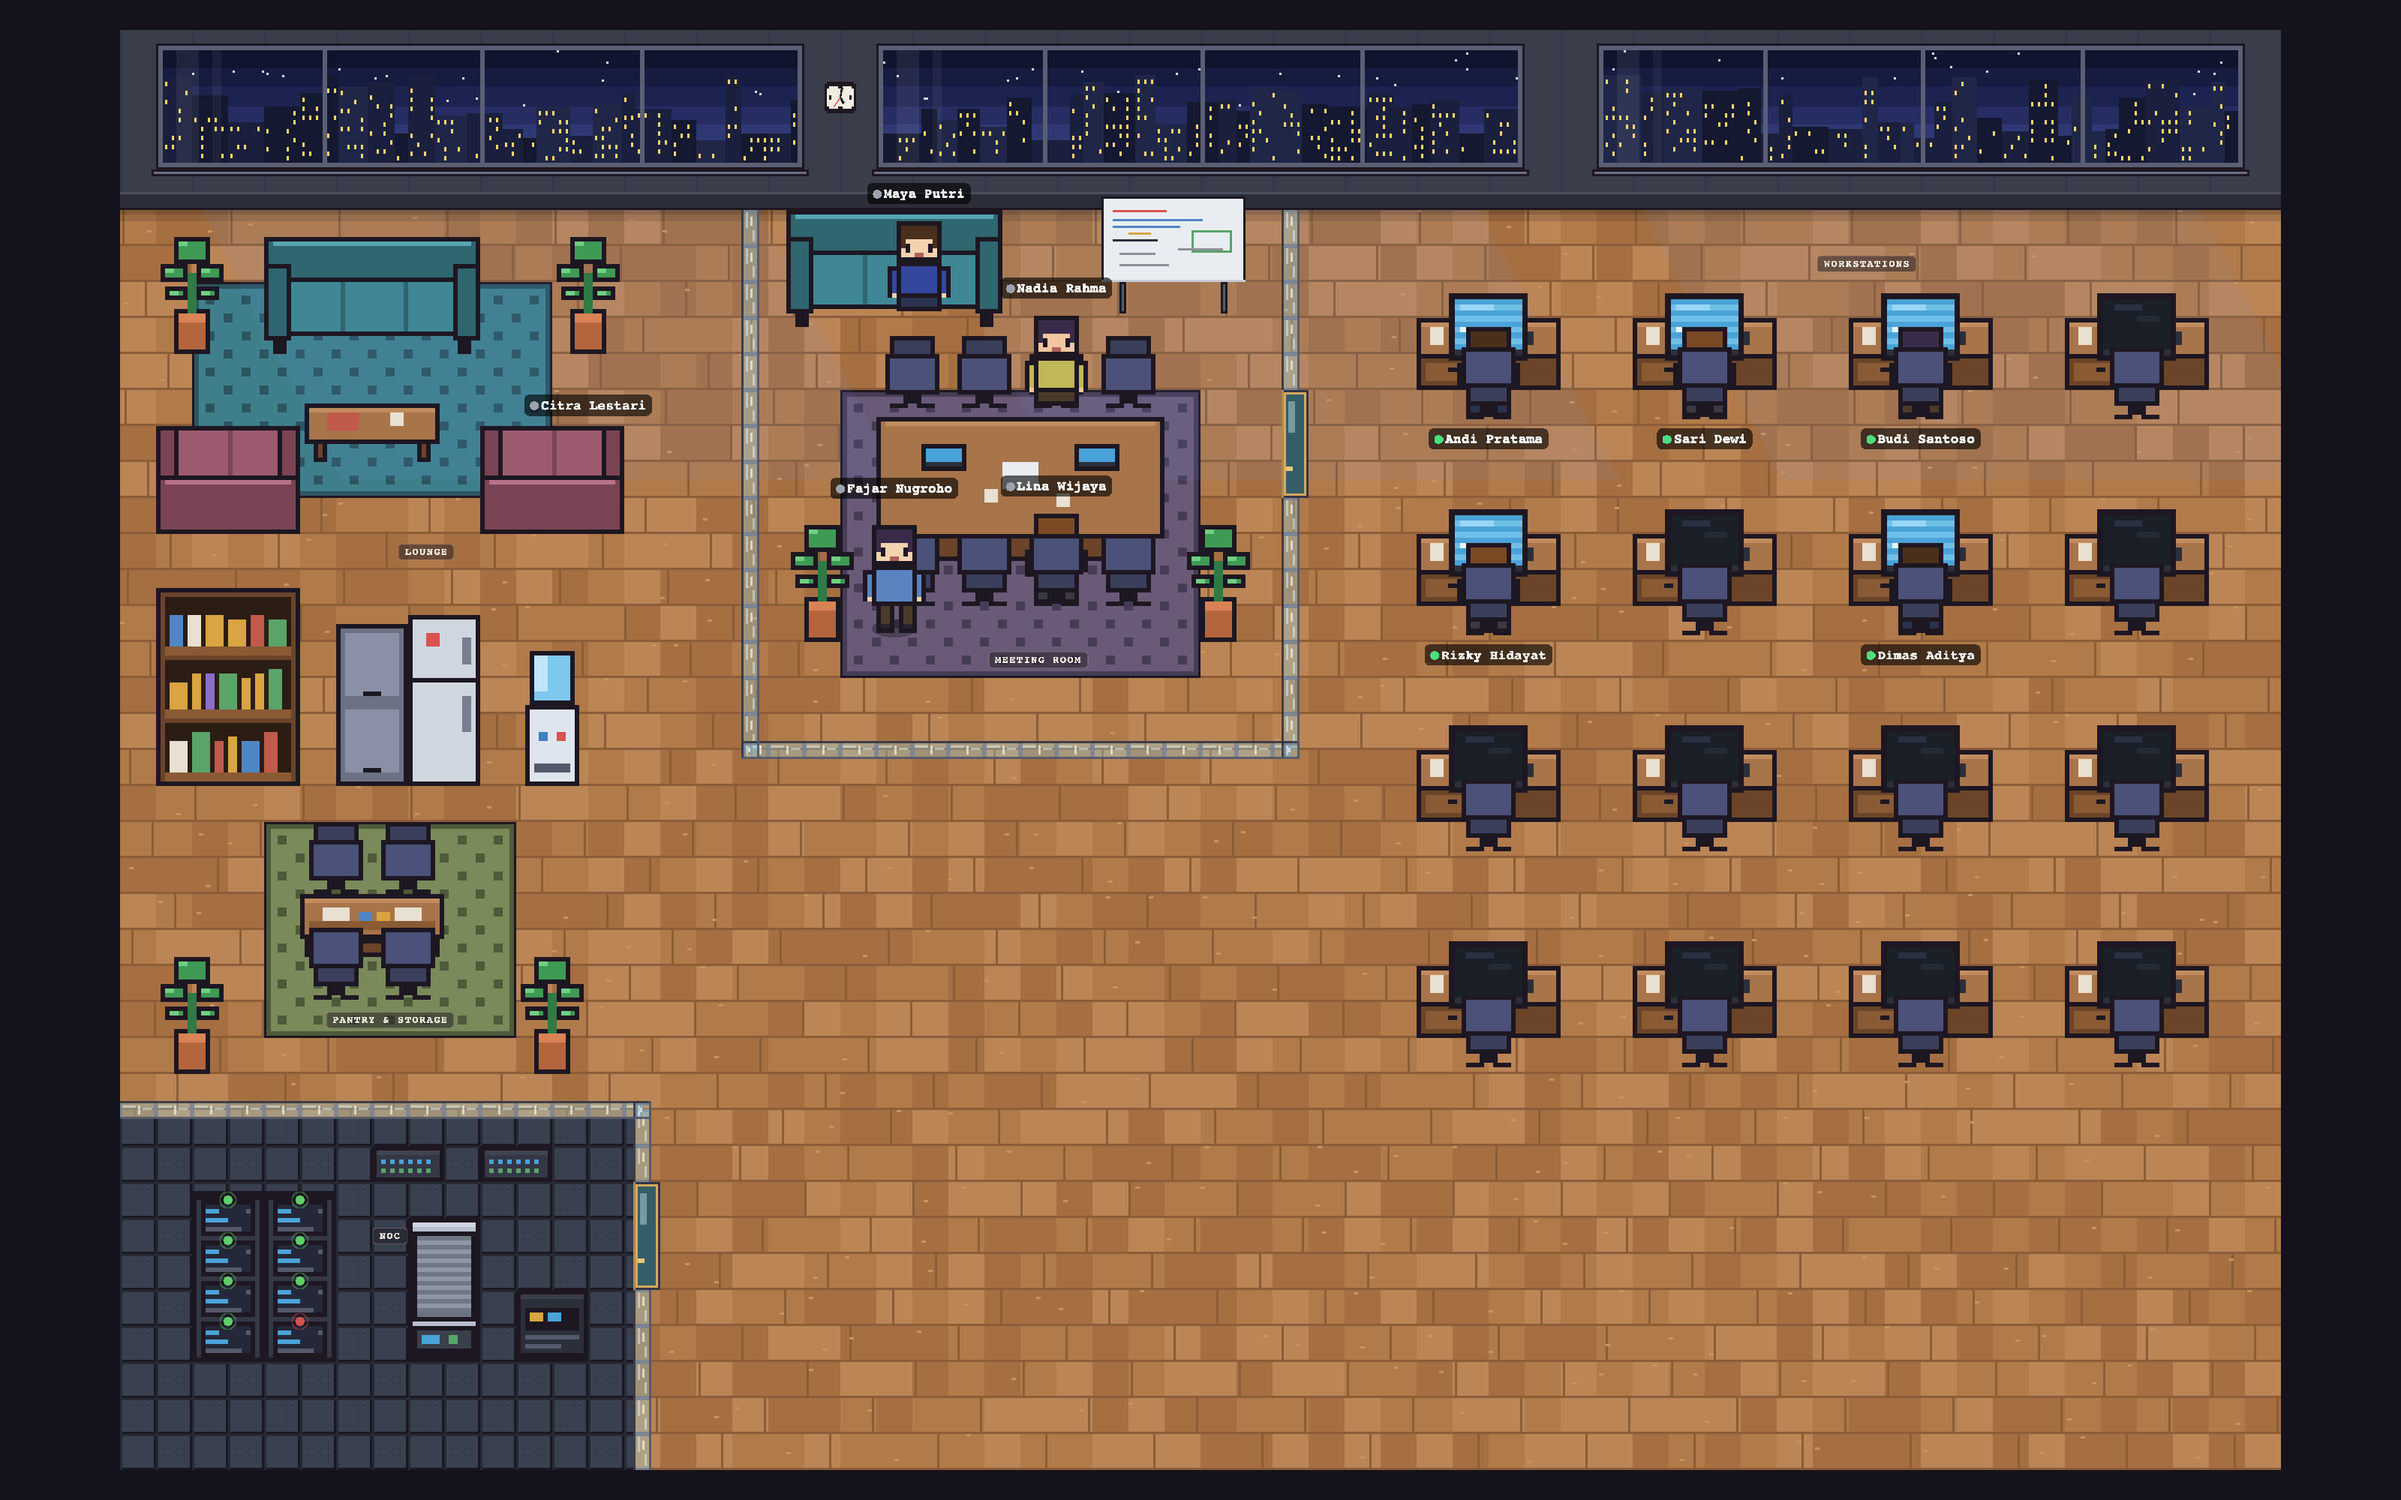
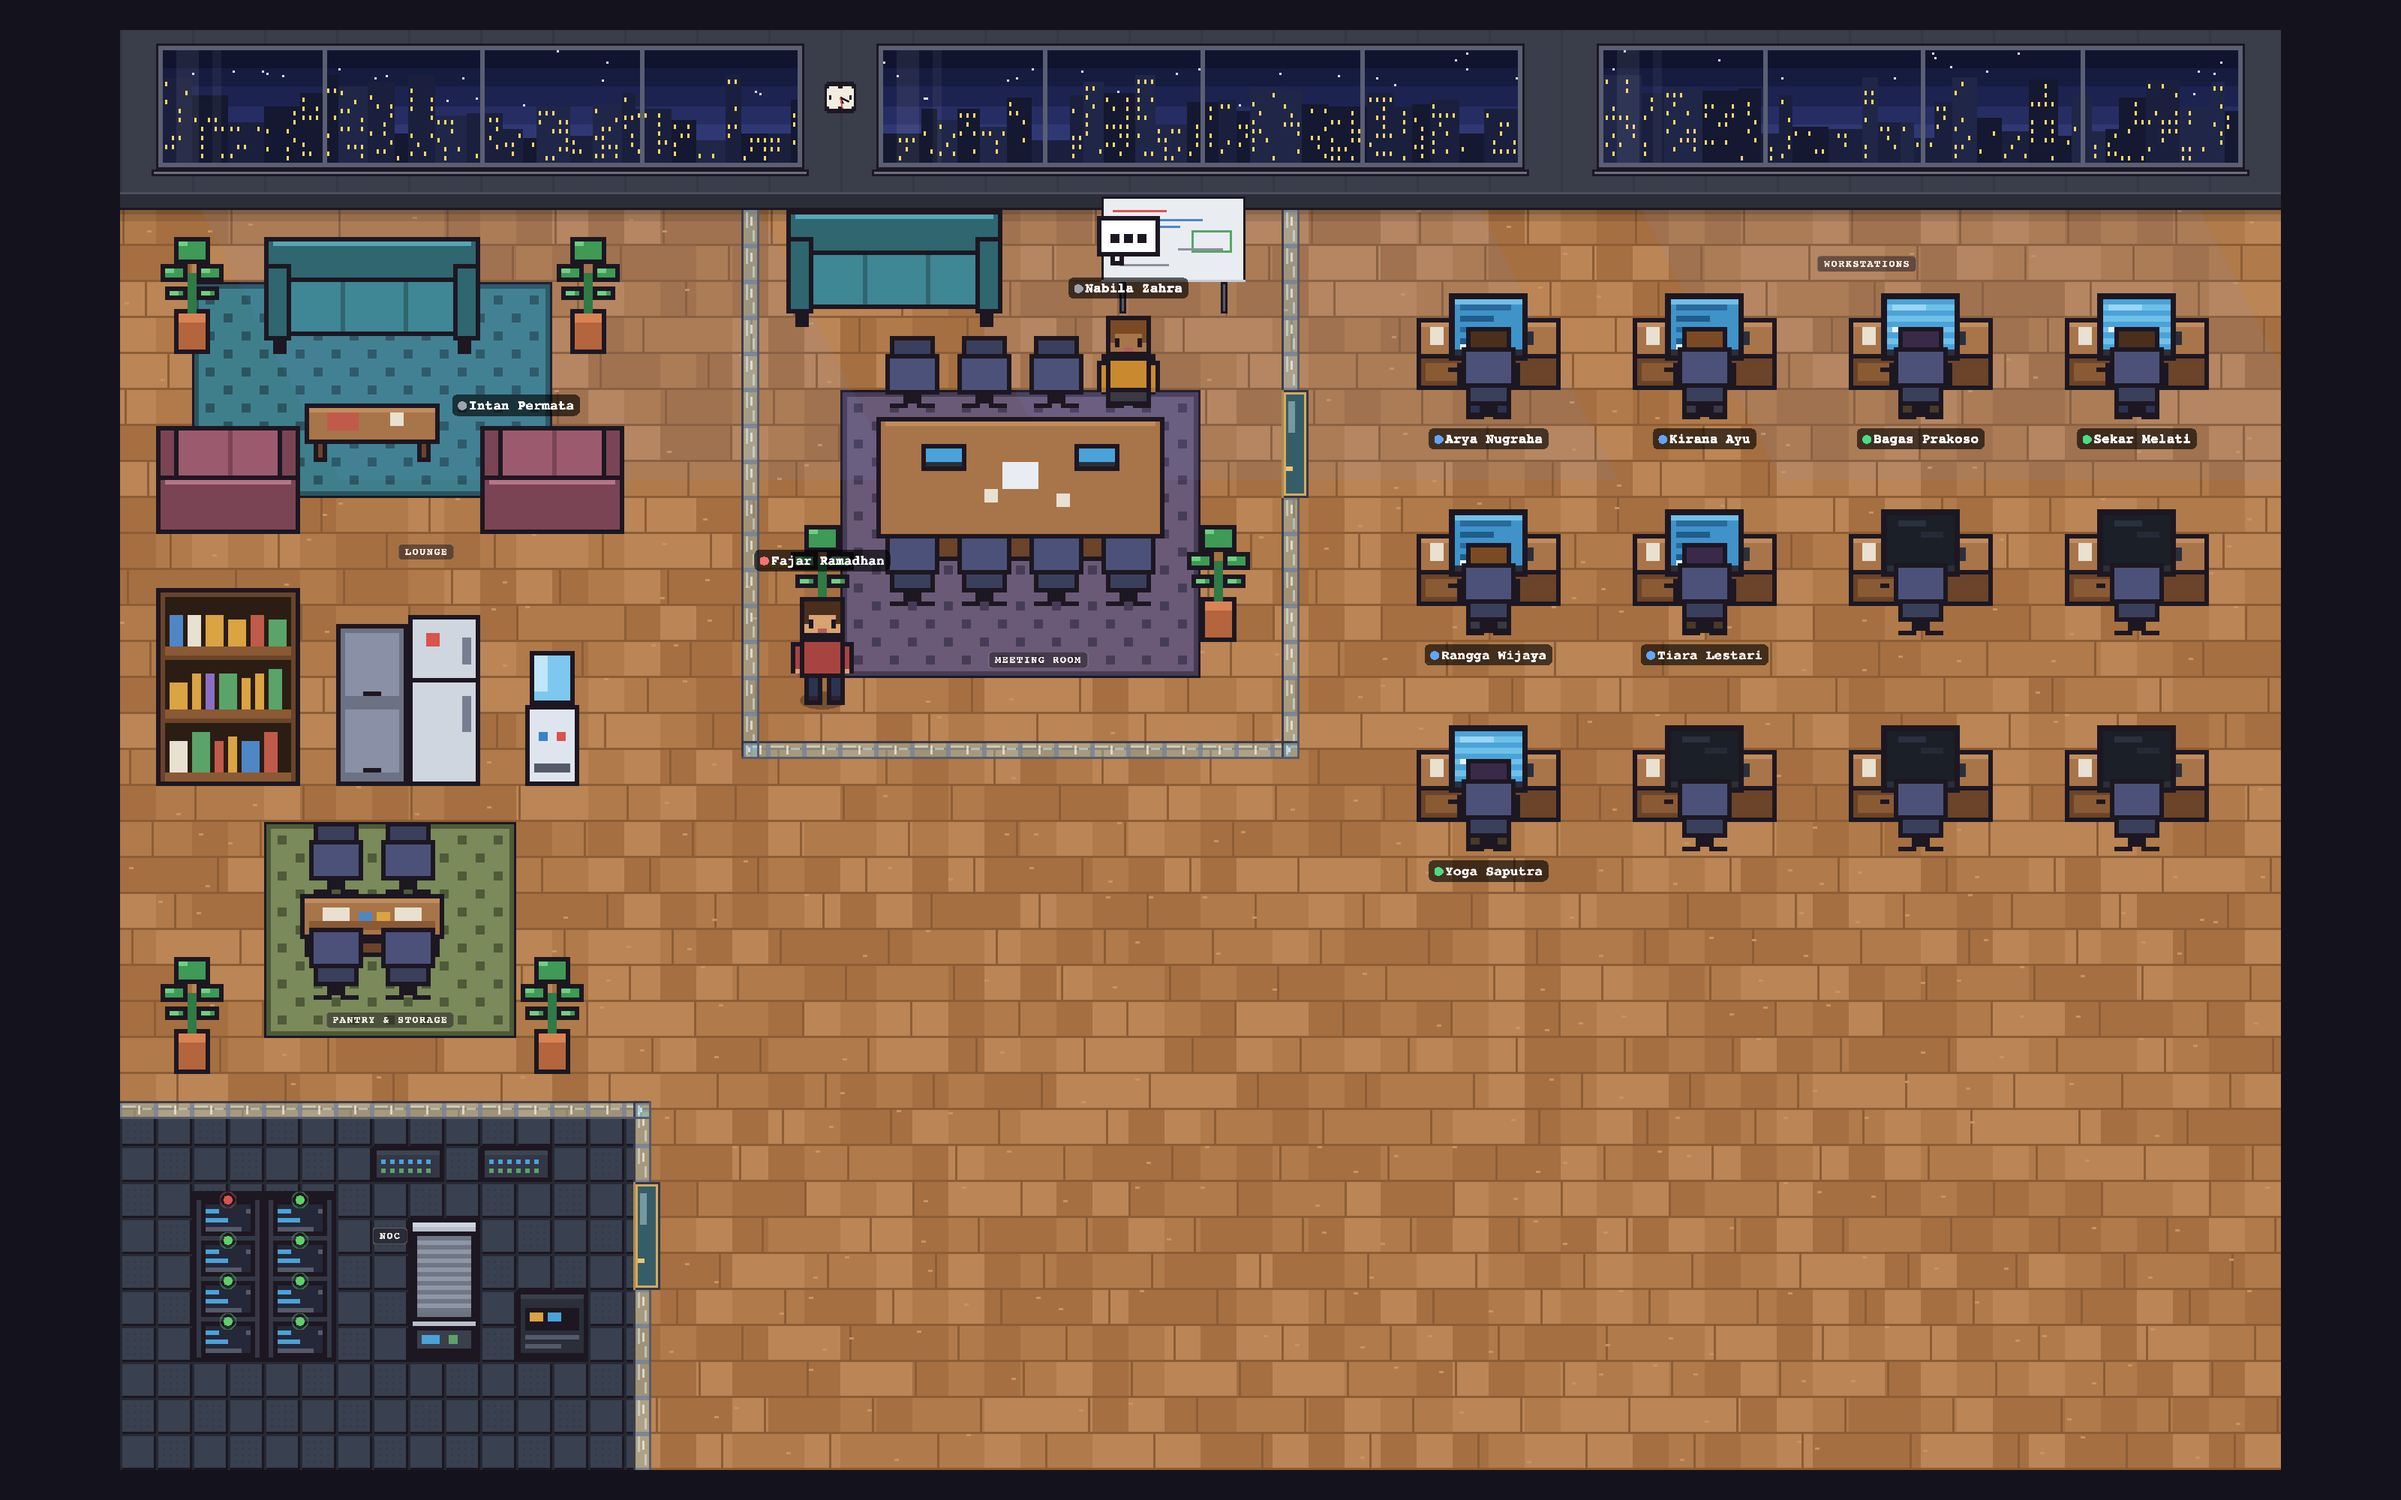
docs(readme): redo the screenshot set under a demo identity
Sidebar shots now use a fictional workspace (Nusantara Studio, custom pixel logo)
and a 10-agent demo roster served on /api/agents, so no real account name or
logo appears. Adds one crop per sidebar part (header, office time, team
activity, recent updates, settings, footer) and refreshes the overview, info
card and 10 s GIF with the same roster.

diff --git a/README.md b/README.md
@@ -52,14 +52,30 @@ Start here: [`docs/OPENBOT_OFFICE_API.md`](docs/OPENBOT_OFFICE_API.md) (data con
 ## Screenshots
 
 Everything in `screenshot/` was captured from the running app at **1600 × 1000**, dark theme,
-2× pixel density, fed by a **dummy roster of 10 agents** (the same field set as `/api/agents`,
-seeded straight into the store, so the sidebar badge reads `Mock`). No mock is hardcoded into a
-component — the world, the sidebar and the info card all read the same store shape they read live.
+2× pixel density, fed by a **dummy roster of 10 agents** served on the normal `/api/agents` route
+(same field set as the real endpoint, so the sidebar badge reads `Live`). The workspace identity is
+a demo one — name **Nusantara Studio**, custom pixel logo — so the documentation never shows a real
+account name. No mock lives in a component: the world, the sidebar and the info card all read the
+same store shape they read in production.
 
 <!-- Side-by-side on GitHub, stacked on narrow screens: two cells, one image each. -->
 | <img src="screenshot/office-overview.png" alt="Full office canvas with the sidebar hidden" width="100%"> | <img src="screenshot/sidebar.png" alt="Floating sidebar with the team activity list" width="100%"> |
 |:--:|:--:|
-| **1 · Full office, sidebar hidden** — the canvas owns the whole viewport: workstation block on the right (4 bays per row, one desk per agent), Meeting Area, Lounge, Pantry & Storage and the raised-floor NOC on the left. Hiding the sidebar reserves no layout space, so the office is pixel-for-pixel identical behind it. | **2 · Sidebar menu** — the frosted panel floats 16 px from every edge. It carries the source badge and clock, one row per phase with a clickable count, the recent-updates feed, and Settings / Help / Exit controls. |
+| **1 · Full office, sidebar hidden** — the canvas owns the whole viewport: workstation block on the right (4 bays per row, one desk per agent), Meeting Area, Lounge, Pantry & Storage and the raised-floor NOC on the left. Hiding the sidebar reserves no layout space, so the office is pixel-for-pixel identical behind it. | **2 · Sidebar menu** — the frosted panel floats 16 px from every edge, here showing the demo workspace **Nusantara Studio** with its own pixel logo. It carries the source badge and clock, one row per phase with a clickable count, the recent-updates feed, and Settings / Help / Exit controls. |
+
+**2b · Sidebar anatomy** — every part of the panel captured on its own, same seed and identity as above:
+
+| <img src="screenshot/sidebar-header.png" alt="Sidebar header with workspace logo, name and live indicator" width="100%"> | <img src="screenshot/sidebar-clock.png" alt="Office time card" width="100%"> |
+|:--:|:--:|
+| **Header** — workspace logo (38 × 38), `VIRTUAL OFFICE` eyebrow, the workspace name, the live indicator and the hide button. | **Office time** — local clock with seconds, the `LIVE` badge and today's date in `id-ID`. |
+
+| <img src="screenshot/sidebar-status.png" alt="Team activity list grouped per phase" width="100%"> | <img src="screenshot/sidebar-updates.png" alt="Recent updates feed" width="100%"> |
+|:--:|:--:|
+| **Team activity** — one row per phase (`Standby`, `Starting`, `Ready`, `Working`, `Restarting`, `Blocked`, `Stopped`) with a clickable count and a 5-segment gauge, plus the member count and source badge in the heading. | **Recent updates** — the last three status changes, newest first, with a counter in the heading; falls back to `No recent updates.` on a quiet board. |
+
+| <img src="screenshot/sidebar-settings.png" alt="Expanded settings section" width="100%"> | <img src="screenshot/sidebar-footer.png" alt="Sidebar footer actions" width="100%"> |
+|:--:|:--:|
+| **Settings** — expanded: label toggle, theme (`System` / `Light` / `Dark`) and sidebar font (`Monospace` / `Geist Pixel`). | **Footer** — `? Help` and `⏻ Exit` actions plus the `CAMERA CONTROLS` legend (`WASD`/arrows, drag, scroll) pinned to the bottom of the panel. |
 
 <img src="screenshot/info-panel.png" alt="Info panel for the selected agent" width="100%">
 
@@ -76,10 +92,11 @@ looped, ~1.8 MB. Agents walk to their desks and type while `Working`, pair up on
 the Meeting Area and the Pantry when idle, and the name plate under a working workstation rides
 along below the chair.
 
-> Regenerating these: start `npm run dev`, open the app, seed the store with any fixture array that
-> matches the `/api/agents` field set, let the agents settle for a few seconds, then capture — full
-> page with the sidebar hidden, the sidebar alone, one agent selected, and a 10 s screen recording
-> converted to GIF (`ffmpeg -ss 7 -t 10 -i capture.webm -vf "fps=10,scale=640:-1" office-activity.gif`).
+> Regenerating these: start `npm run dev`, answer `/api/agents` with any fixture array that matches
+> the real field set, answer `/api/office-logo` and `/api/office-profile` with the demo identity, let
+> the agents settle for a few seconds, then capture — full page with the sidebar hidden, the sidebar
+> alone plus one crop per section, one agent selected, and a 10 s screen recording converted to GIF
+> (`ffmpeg -ss 7 -t 10 -i capture.webm -vf "fps=10,scale=640:-1" office-activity.gif`).
 
 ## Integration with OpenBot
 
